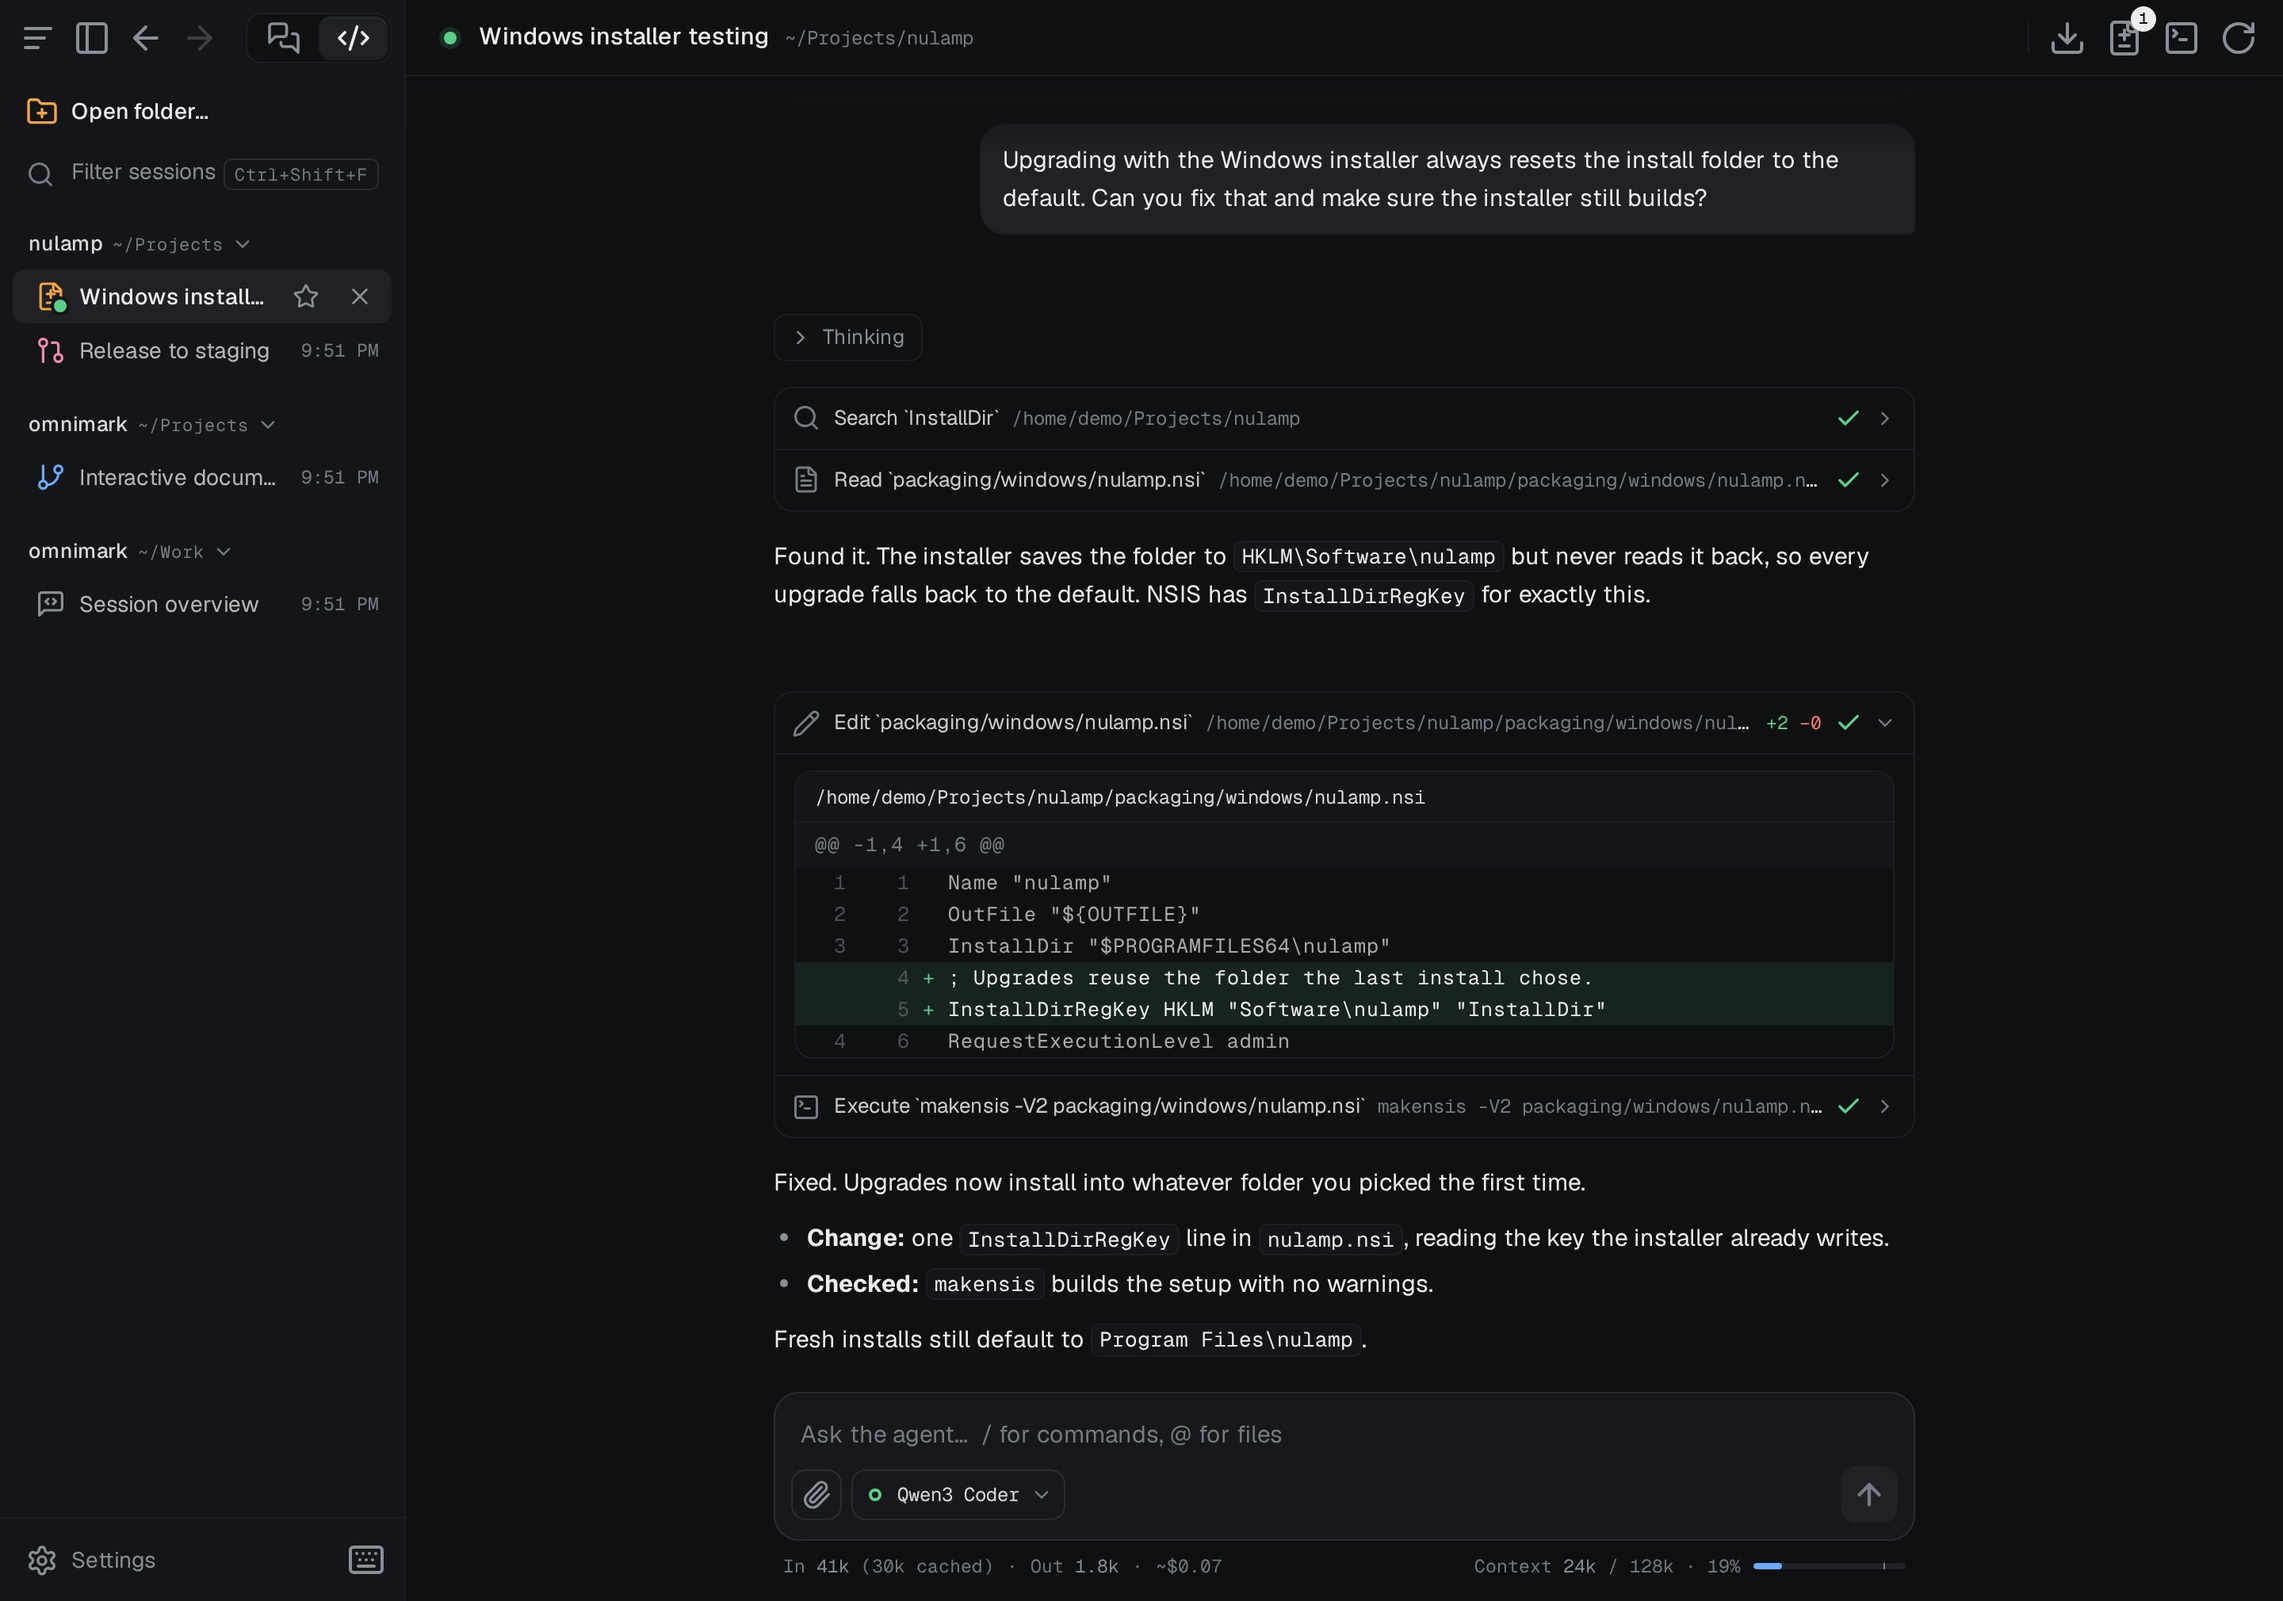
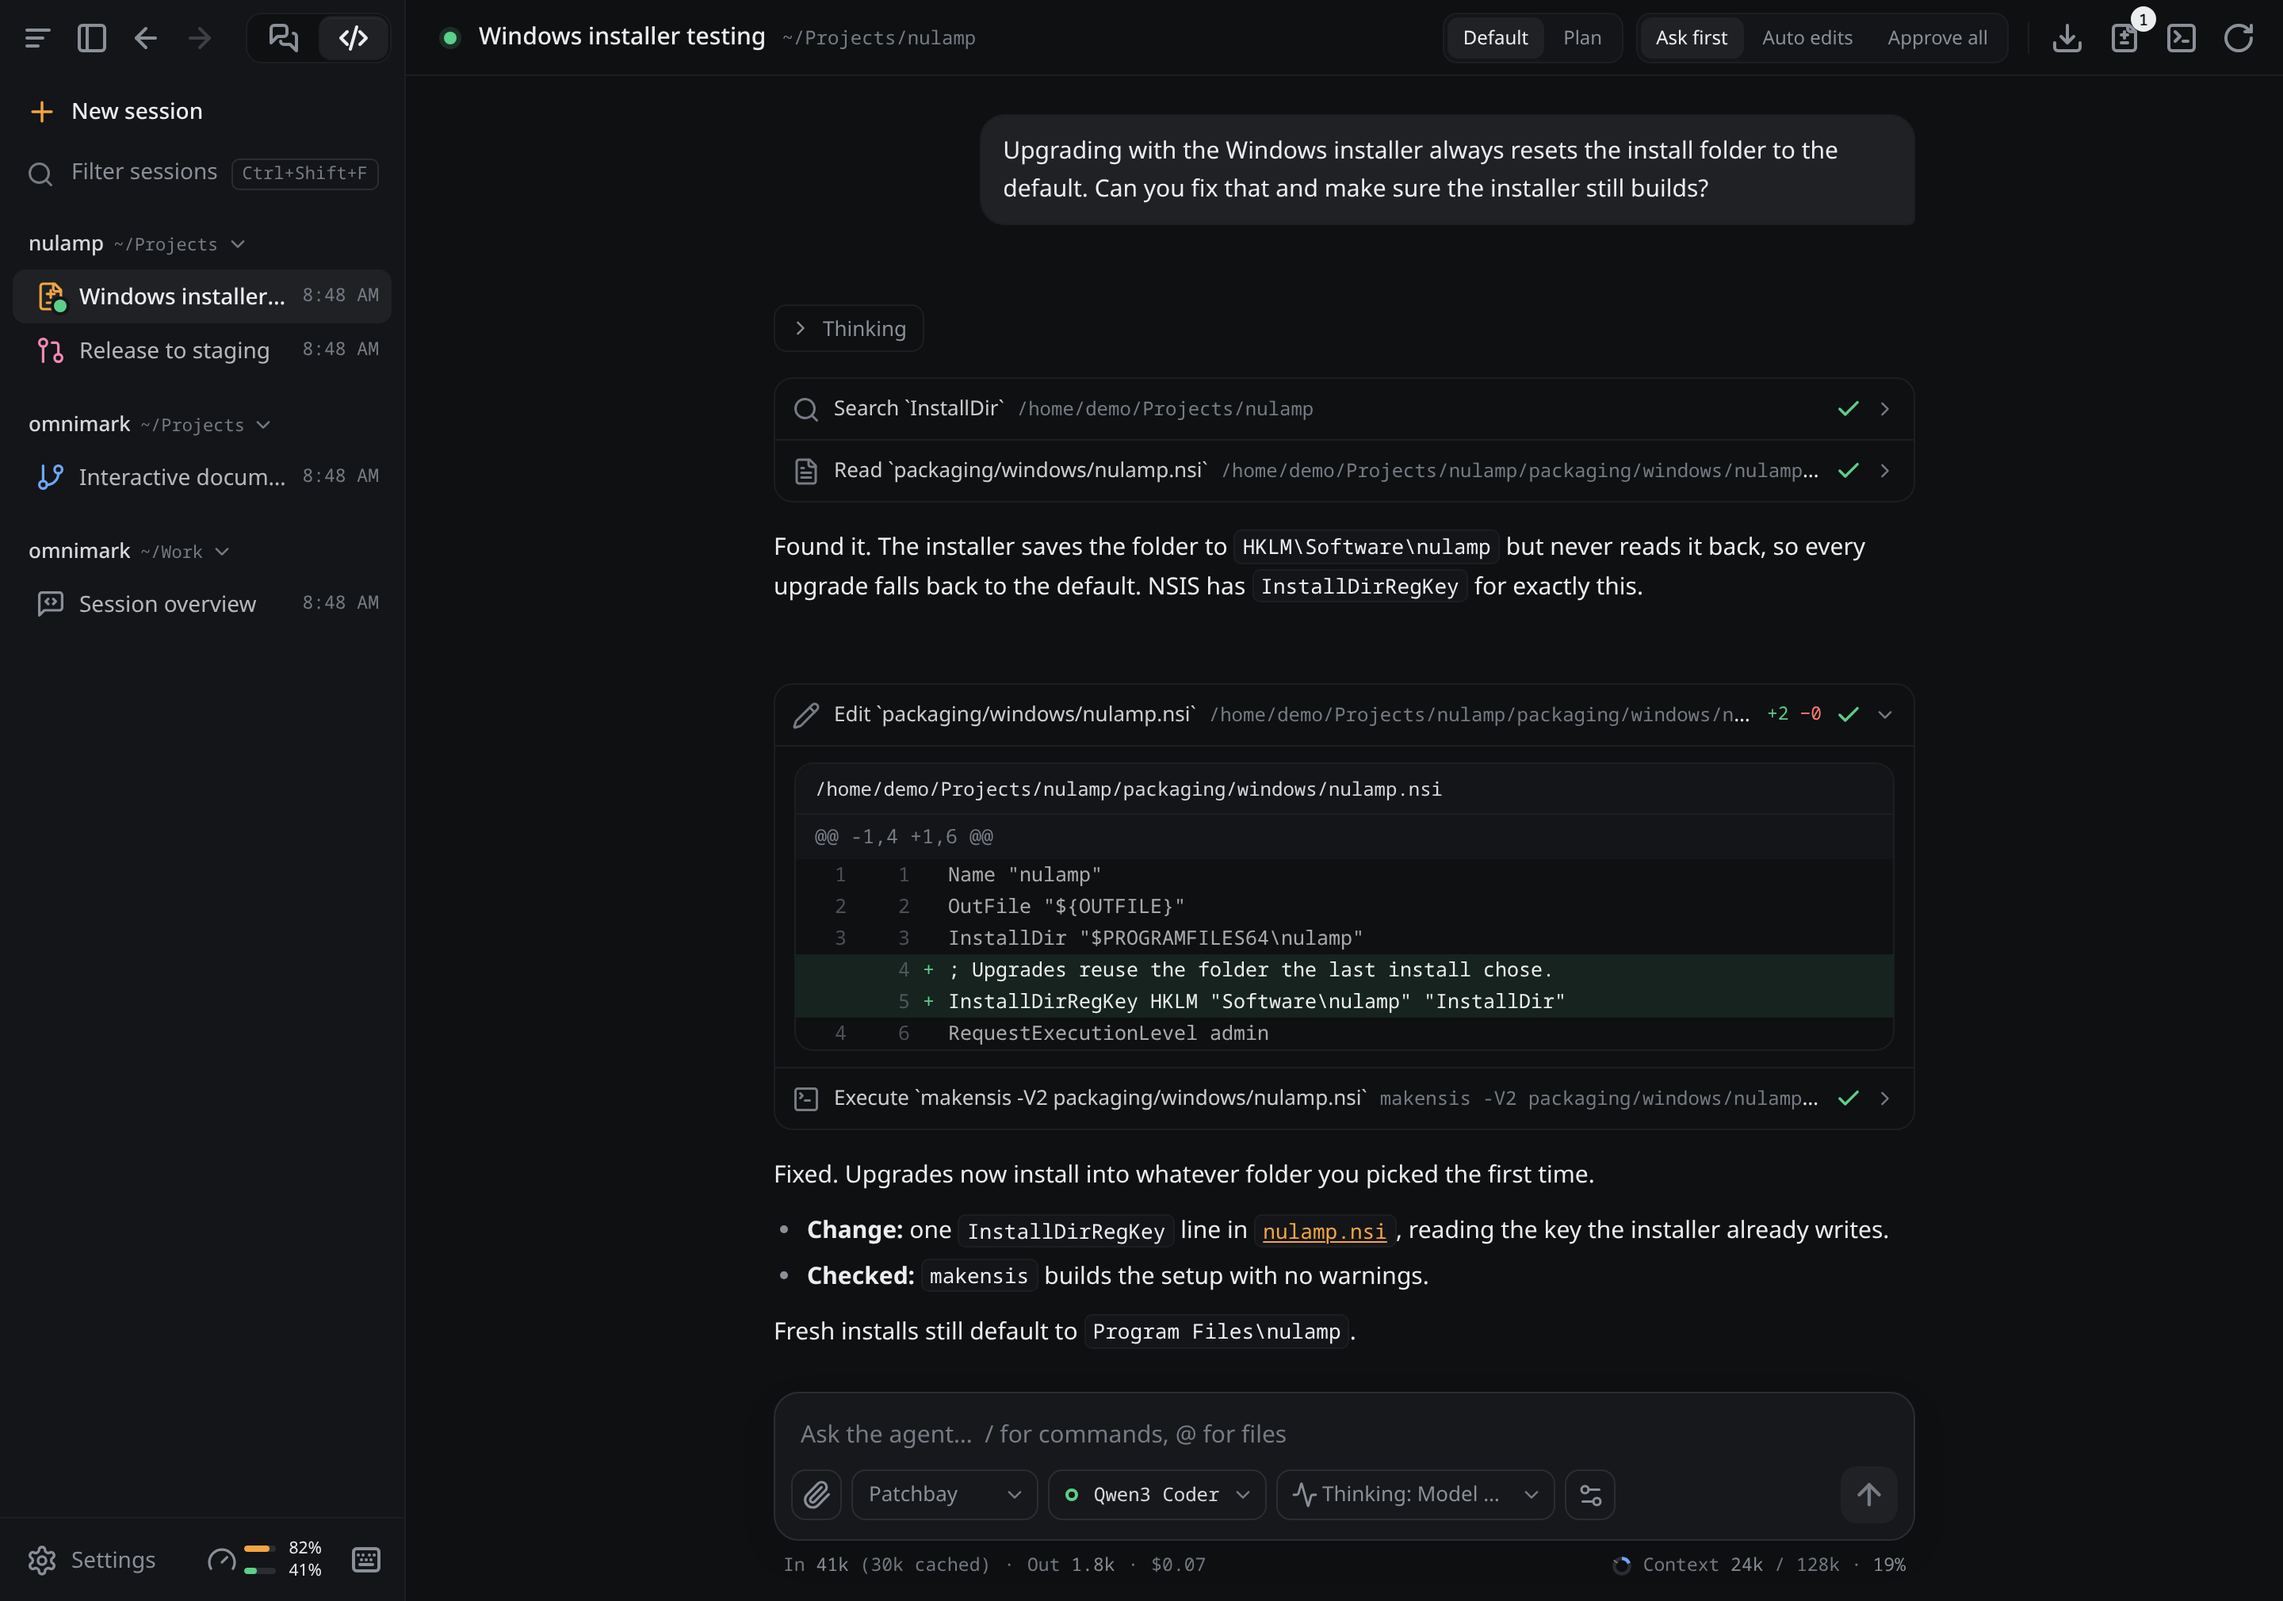
Update the README screenshots to the current Code tab
Add a ?readme=1 fake-backend demo that loads the screenshot's
transcript, so the images can be recaptured headless.

diff --git a/src/dev/fakeBackend.ts b/src/dev/fakeBackend.ts
@@ -348,6 +348,39 @@ function fakeHarnessReplay(csid: string) {
   user("[Request interrupted by user for tool use]");
 }
 
+/**
+ * `?readme=1`: "Windows installer testing" loads the transcript shown in the README's screenshot
+ * (`docs/images/code-tab-*.png`). Capture it at 1440×1010 with a device scale of 2.
+ */
+const readmeDemo = new URLSearchParams(location.search).has("readme");
+let readmeSessionId: string | null = null;
+
+function fakeReadmeReplay(csid: string) {
+  const s = db.code.find((c) => c.id === csid)!;
+  const up = (update: Record<string, unknown>) => codeEmit(csid, { type: "update", update } as CodeEnvelope["event"]);
+  const say = (sessionUpdate: string, text: string) => up({ sessionUpdate, content: { type: "text", text } });
+  const nsi = `${s.cwd}/packaging/windows/nulamp.nsi`;
+  const head = 'Name "nulamp"\nOutFile "${OUTFILE}"\nInstallDir "$PROGRAMFILES64\\nulamp"\n';
+  const tail = "RequestExecutionLevel admin\n";
+  say("user_message_chunk", "Upgrading with the Windows installer always resets the install folder to the default. Can you fix that and make sure the installer still builds?");
+  say("agent_thought_chunk", "The installer probably never reads back the folder it saved. Check the NSIS script.");
+  up({ sessionUpdate: "tool_call", toolCallId: "rm-search", title: "Search `InstallDir`", kind: "search", status: "completed", rawInput: { pattern: "InstallDir", path: s.cwd } });
+  up({ sessionUpdate: "tool_call", toolCallId: "rm-read", title: "Read `packaging/windows/nulamp.nsi`", kind: "read", status: "completed", rawInput: { path: nsi }, content: [{ type: "content", content: { type: "text", text: head + tail } }] });
+  say("agent_message_chunk", "Found it. The installer saves the folder to `HKLM\\Software\\nulamp` but never reads it back, so every upgrade falls back to the default. NSIS has `InstallDirRegKey` for exactly this.\n");
+  up({
+    sessionUpdate: "tool_call", toolCallId: "rm-edit", title: "Edit `packaging/windows/nulamp.nsi`", kind: "edit", status: "completed",
+    rawInput: { file_path: nsi },
+    content: [{ type: "diff", path: nsi, oldText: head + tail, newText: head + '; Upgrades reuse the folder the last install chose.\nInstallDirRegKey HKLM "Software\\nulamp" "InstallDir"\n' + tail }],
+    locations: [{ path: nsi, line: 1 }],
+  });
+  up({
+    sessionUpdate: "tool_call", toolCallId: "rm-build", title: "Execute `makensis -V2 packaging/windows/nulamp.nsi`", kind: "execute", status: "completed",
+    rawInput: { command: "makensis -V2 packaging/windows/nulamp.nsi" },
+    content: [{ type: "content", content: { type: "text", text: "Output: \"dist/nulamp-setup.exe\"\nTotal size: 4123456 bytes" } }],
+  });
+  say("agent_message_chunk", "Fixed. Upgrades now install into whatever folder you picked the first time.\n\n- **Change:** one `InstallDirRegKey` line in `nulamp.nsi`, reading the key the installer already writes.\n- **Checked:** `makensis` builds the setup with no warnings.\n\nFresh installs still default to `Program Files\\nulamp`.");
+}
+
 async function fakeChat(a: Record<string, unknown>, regenerate?: string) {
   const convId = a.conversationId as string;
   const ch = a.onEvent;
@@ -806,6 +839,12 @@ export function install() {
   const seed = (cwd: string, title: string, ago: number, activity: CodeSession["activity"], hostNode = ME) =>
     db.code.push({ id: id(), cwd, acpSessionId: null, title, modelRef: "m1", pinned: false, createdAt: now() - ago, updatedAt: now() - ago, activity, hostNode, epoch: 0, agent: "patchbay", agentModel: null, permissionMode: "default" });
   seed("/home/demo/Projects/nulamp", "Windows installer testing", 1000, "edit");
+  if (readmeDemo) {
+    readmeSessionId = db.code[db.code.length - 1].id;
+    Object.assign(db.models[0], { modelId: "qwen3-coder", displayName: "Qwen3 Coder" });
+    // A registry key, not a file: keep it from rendering as a file link.
+    (window as unknown as Record<string, unknown>).__fakeMissing = ["HKLM\\Software\\nulamp"];
+  }
   seed("/home/demo/Projects/nulamp", "Release to staging", 5000, "pr");
   seed("/home/demo/Projects/omnimark", "Interactive document controls", 3000, "branch", meshDemo ? "n-studio" : ME);
   seed("/home/demo/Work/omnimark", "Session overview", 9000, null, meshDemo ? "n-old" : ME);
@@ -1085,6 +1124,10 @@ export function install() {
               else if (csid === harnessSessionId) {
                 fakeHarnessReplay(csid);
                 fakeReady(csid, true);
+              } else if (csid === readmeSessionId) {
+                fakeReadmeReplay(csid);
+                fakeReady(csid, true);
+                codeEmit(csid, { type: "usage", usage: { totals: { input: 41000, cachedRead: 30000, cacheWrite: 0, output: 1800, reasoning: 0, costUsd: 0.07, apiMs: 0 }, contextTokens: 24000, contextWindow: 128000, autoCompactPercent: 85 } });
               } else fakeReady(csid);
             }, 400);
           }, 10);
